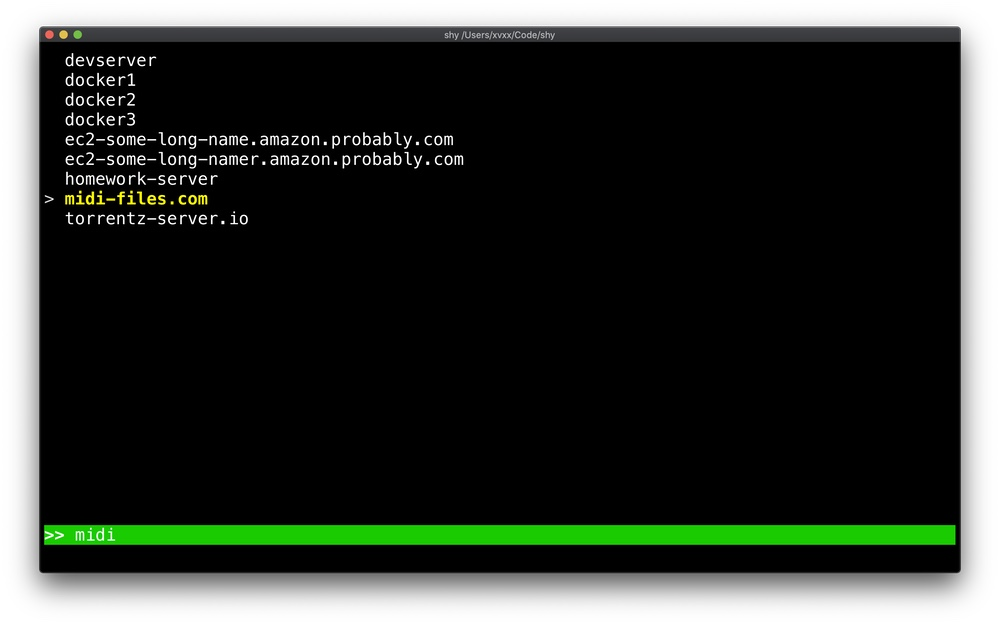
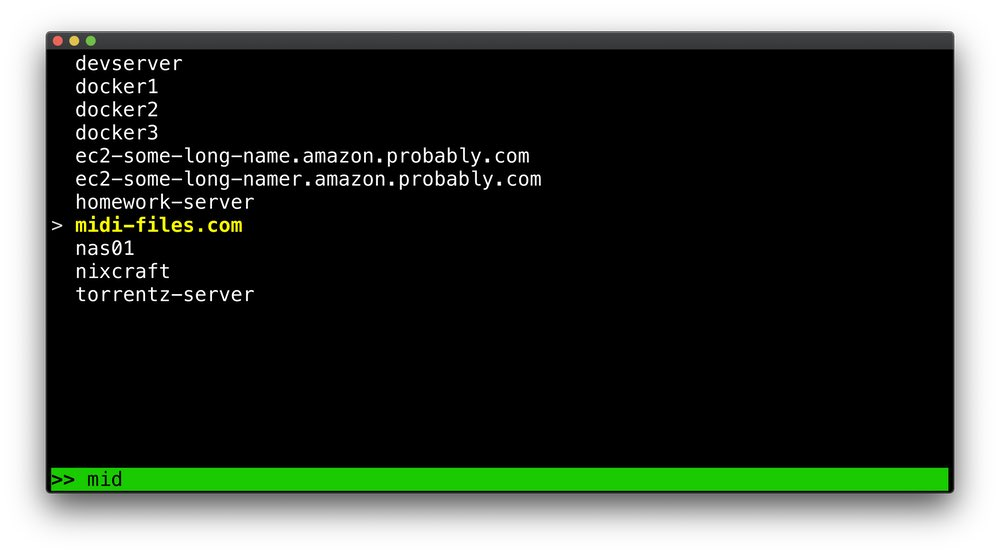
update screenies

Changed region(s): [[0.031, 0.0307, 0.992, 0.9513]]

diff --git a/src/tui.rs b/src/tui.rs
@@ -254,7 +254,7 @@ impl TUI {
     fn prompt_colors(&self) -> (&str, &str) {
         match self.status {
             SearchStatus::Blank => (color::WhiteBG.as_ref(), color::Black.as_ref()),
-            SearchStatus::Found => (color::GreenBG.as_ref(), color::White.as_ref()),
+            SearchStatus::Found => (color::GreenBG.as_ref(), color::Black.as_ref()),
             SearchStatus::Missed => (color::RedBG.as_ref(), color::White.as_ref()),
         }
     }

diff --git a/README.md b/README.md
@@ -4,7 +4,7 @@
 parses your `~/.ssh/config` file and displays all your "Host" patterns,
 allowing you to quickly select one using a readline-ish prompt.
 
-## Install
+## install
 
 If you have [cargo] installed, installation is a breeze:
 
@@ -15,7 +15,7 @@ file, you can now run:
 
     shy
 
-## Keyboard Shortcuts
+## keyboard shortcuts
 
 | **Shortcut**        | **Nav Mode**        | **Search Mode**                    |
 | ------------------- | ------------------- | ---------------------------------- |
@@ -27,17 +27,14 @@ file, you can now run:
 | `r`                 | Refresh             |                                    |
 | `ctrl-c`, `ESC`     | Quit                | Clear Input, then Exit Search Mode |
 
-## Screenies
+## screenies
 
-| Nav                            | Search                         |
-| ------------------------------ | ------------------------------ |
-| <img src="./img/screen1.jpeg"> | <img src="./img/screen2.jpeg"> |
+| ![Screenshot](./img/screen1.jpeg) | ![Screenshot](./img/screen2.jpeg) |
+| :-------------------------------: | :-------------------------------: |
+|                Nav                |            Search.com             |
 
 ## TODO
 
-- [ ] correctly parse .ssh/config
-- [ ] config parsing
-- [ ] show actual hostnames in status bar
 - [ ] screencast for README
 
 [cargo]: https://rustup.rs/
